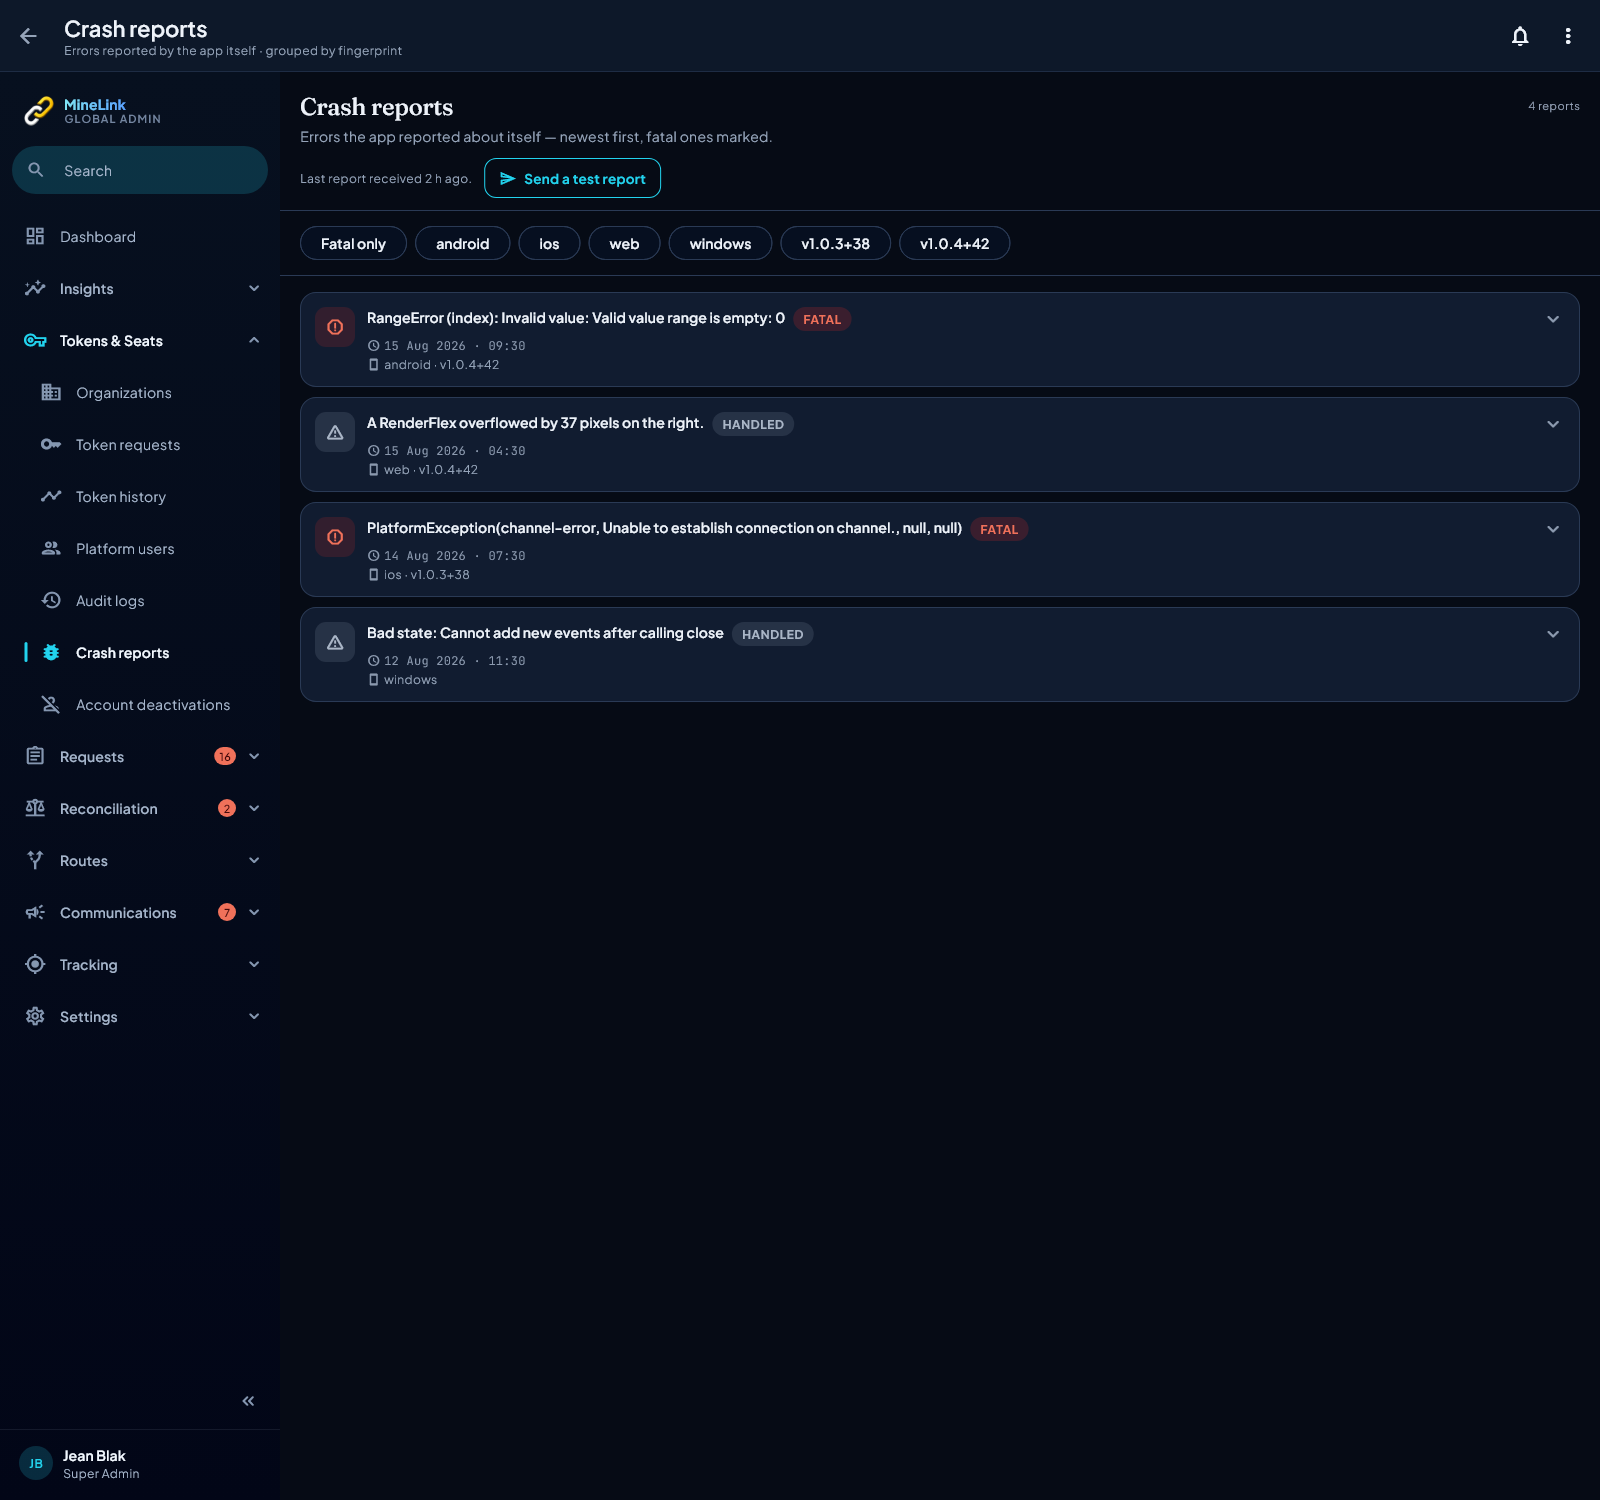
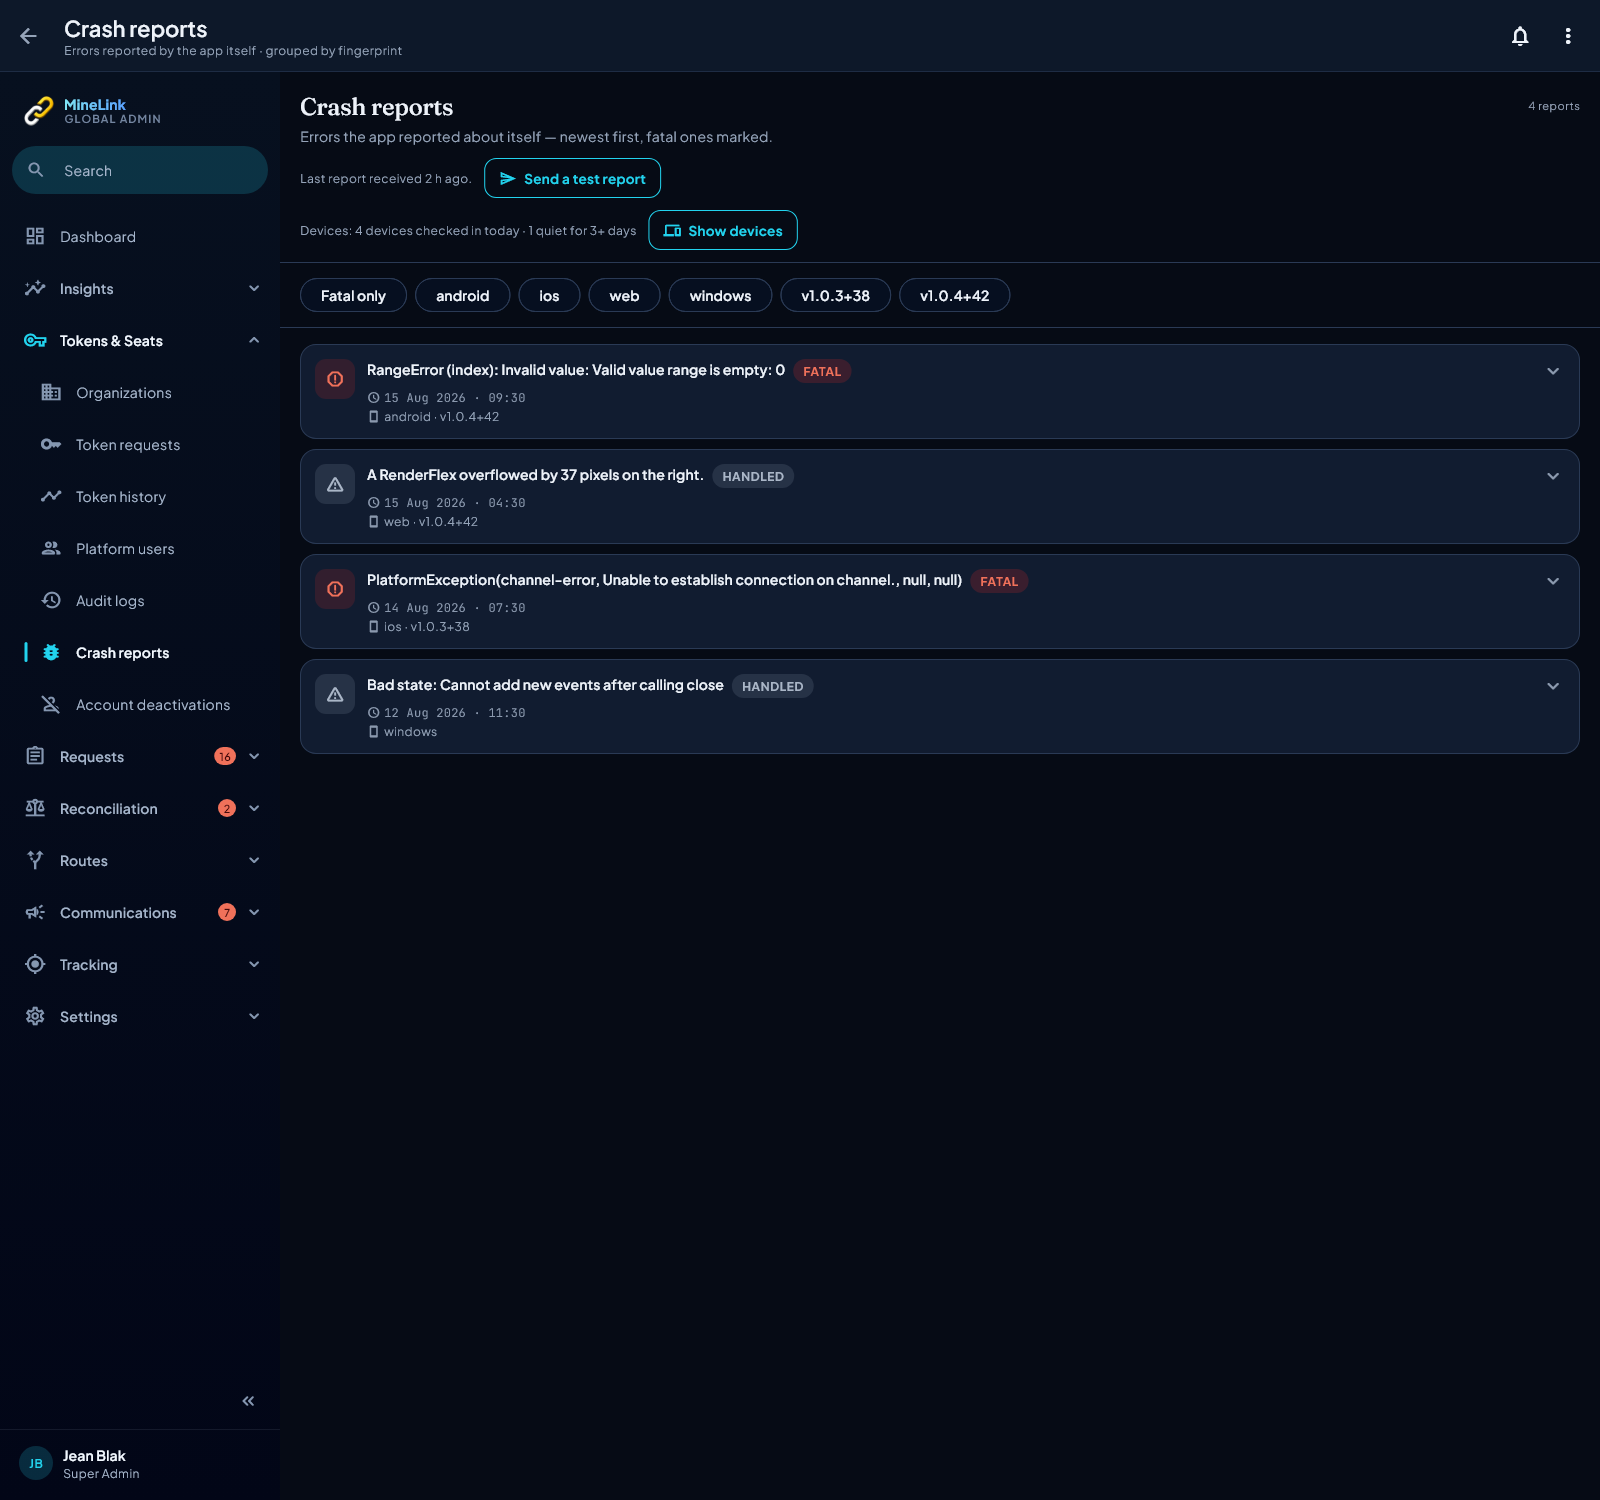
test(renders): crash reports show the Devices line from fixture check-ins

Changed region(s): [[0.1875, 0.1533, 1.0, 0.5213]]

diff --git a/test/fixtures/console_tail_fixtures.dart b/test/fixtures/console_tail_fixtures.dart
@@ -28,6 +28,7 @@ import 'package:flutter_application_1/features/super_admin/data/models/account_d
 import 'package:flutter_application_1/features/super_admin/data/models/audit_log.dart';
 import 'package:flutter_application_1/features/super_admin/data/models/company_monthly_ops_stats.dart';
 import 'package:flutter_application_1/features/super_admin/data/models/crash_report_row.dart';
+import 'package:flutter_application_1/features/super_admin/data/models/device_checkin_row.dart';
 import 'package:flutter_application_1/features/super_admin/data/models/organization_seat.dart';
 import 'package:flutter_application_1/features/super_admin/data/models/serial_token.dart';
 import 'package:flutter_application_1/features/super_admin/providers/super_admin_providers.dart';
@@ -772,6 +773,7 @@ List<Override> consoleTailOverrides() => [
           .overrideWith((ref, _) async => kCompanyUsersGrouped),
       crashReportsProvider.overrideWith((ref, _) async => kCrashReports),
       crashReportFacetsProvider.overrideWith((ref) async => kCrashFacets),
+      deviceCheckinsProvider.overrideWith((ref) async => kDeviceCheckins),
       accountDeactivationRequestsProvider
           .overrideWith((ref) async => kDeactivations),
       adminAvailableRoutesProvider.overrideWith((ref) async => kAvailableRoutes),
@@ -947,3 +949,24 @@ List<Override> consoleLastOverrides() => [
       periodInsightsBundleProvider
           .overrideWith((ref, _) async => kTransporterInsights),
     ];
+
+/// Five installs for the Crash reports page's "Devices" line: four checked in
+/// today, one quiet for five days (Jean's go-ahead, 2026-10-24).
+final List<DeviceCheckinRow> kDeviceCheckins = [
+  for (final (who, platform, ago) in [
+    ('Thandi Mokoena', 'android', const Duration(hours: 1)),
+    ('Pieter van Wyk', 'windows', const Duration(hours: 3)),
+    ('Lerato Dlamini', 'web', const Duration(hours: 9)),
+    ('Sipho Ndlovu', 'android', const Duration(hours: 20)),
+    ('Johan Botha', 'android', const Duration(days: 5)),
+  ])
+    DeviceCheckinRow(
+      deviceId: 'fixture-${who.toLowerCase().replaceAll(' ', '-')}',
+      userLabel: who,
+      platform: platform,
+      appVersion: '1.0.0',
+      firstSeenAt: kCaptureNow.subtract(const Duration(days: 40)),
+      lastSeenAt: kCaptureNow.subtract(ago),
+      checkins: 38,
+    ),
+];
